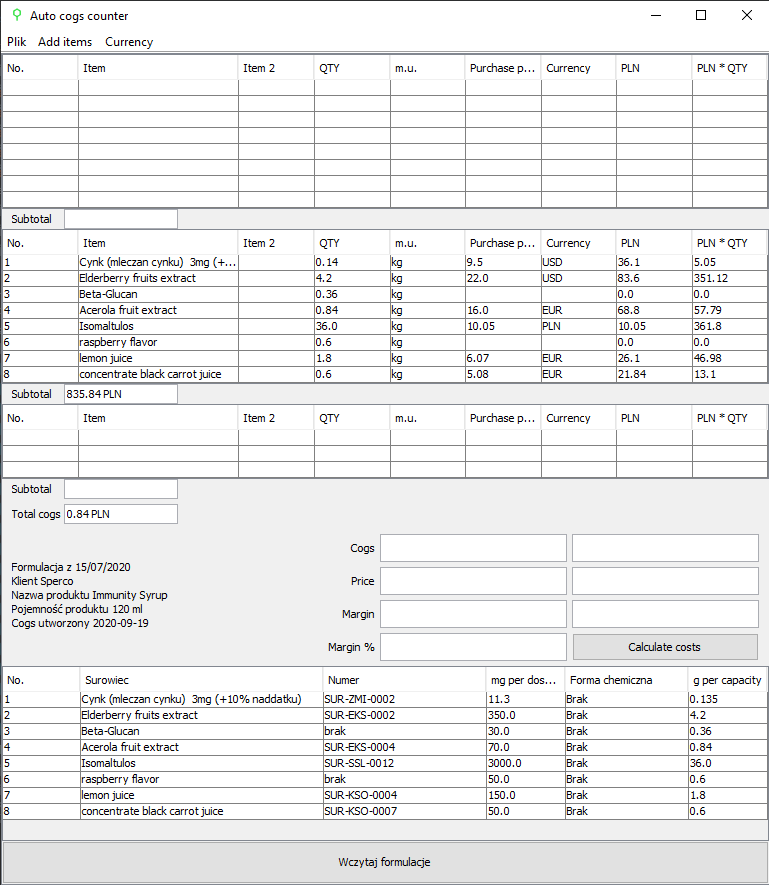
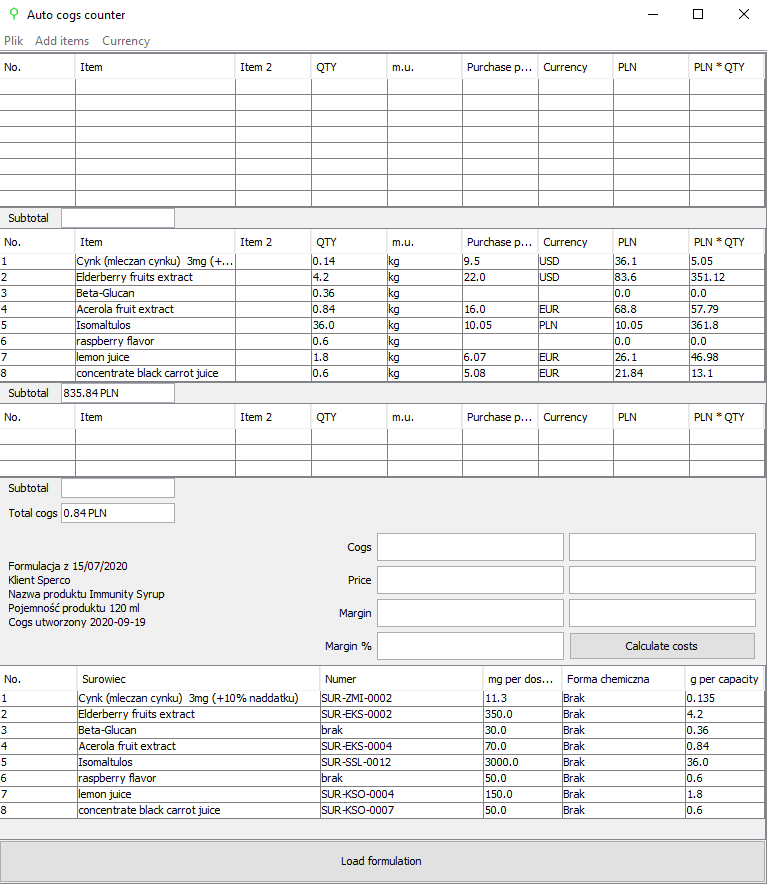
Small adjustments for writing ReadMe

Changed region(s): [[0.0, 0.0, 1.0, 1.0]]

diff --git a/src/View.java b/src/View.java
@@ -418,7 +418,7 @@ public class View {
         c.gridwidth = 4;
         mainJPanelContainer.add(formulationTableScrollPane,c);
 
-        loadFormulationButton = new JButton("Wczytaj formulacje");
+        loadFormulationButton = new JButton("Load formulation");
 //        c.gridwidth = 1;
         c.gridx = 0;
         c.gridy = 11;
